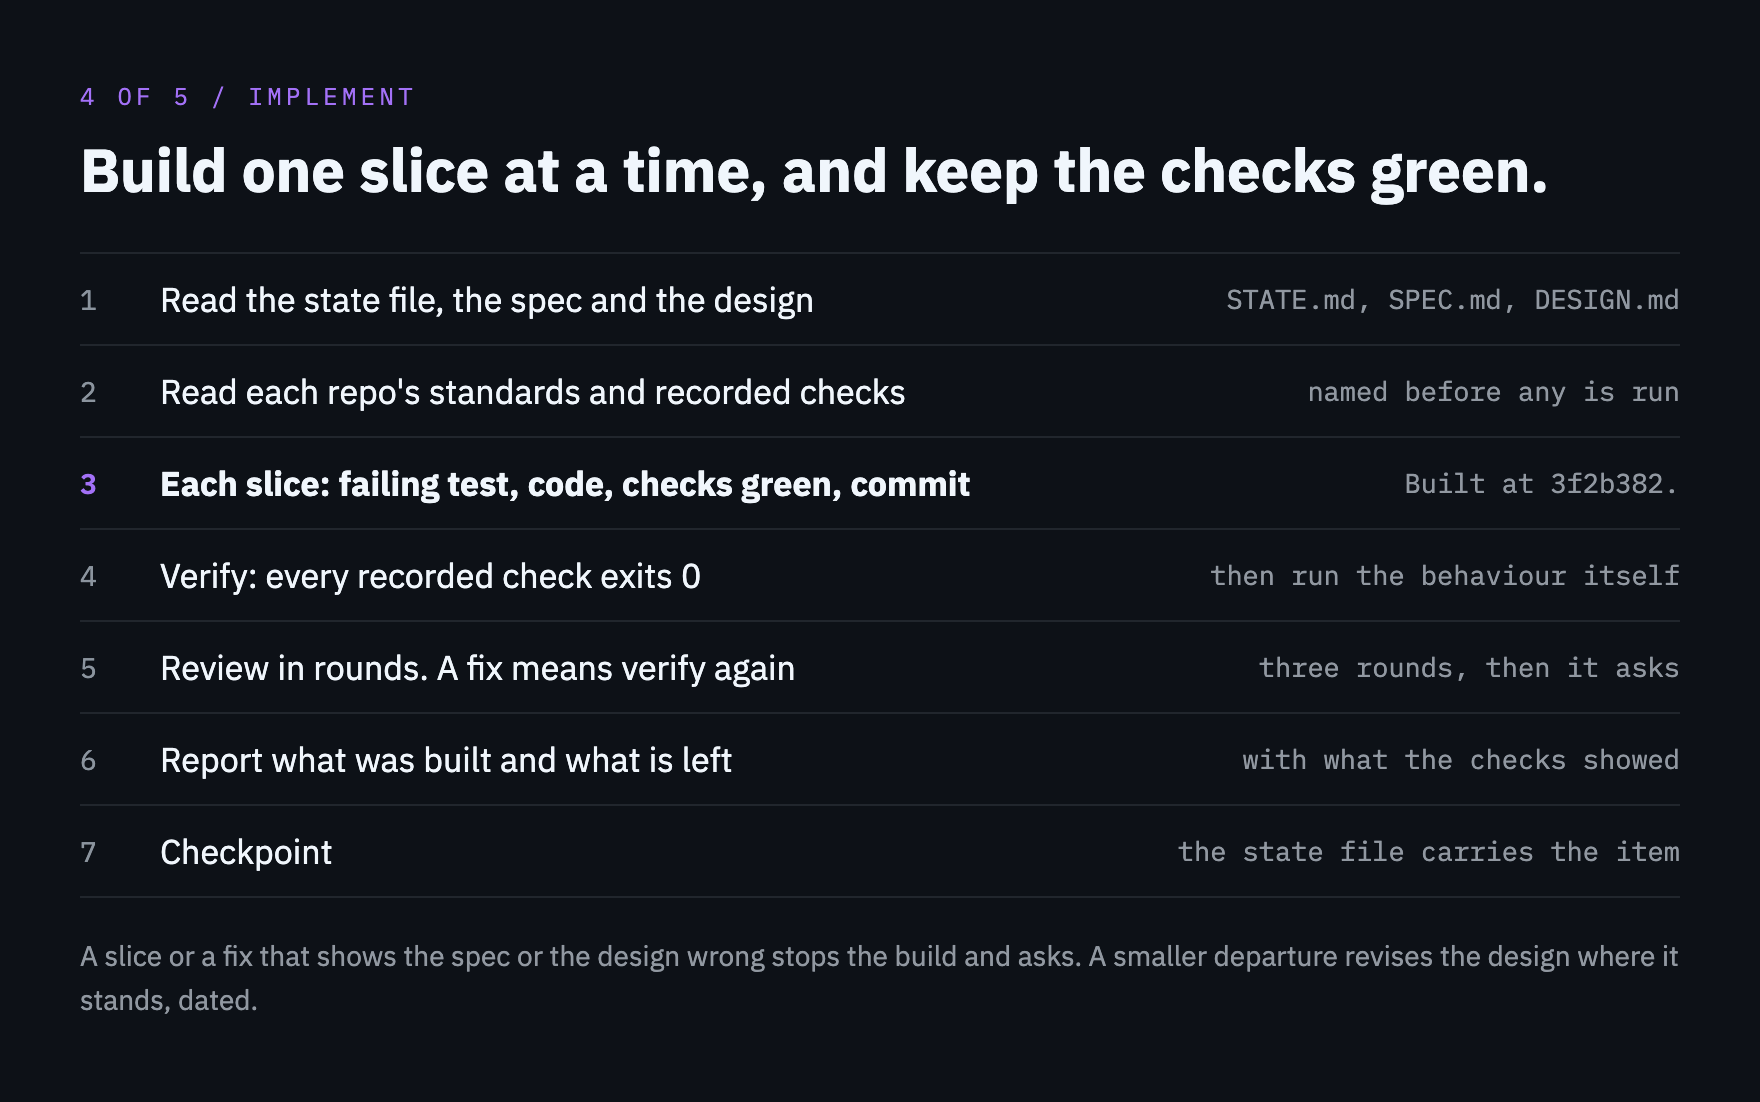
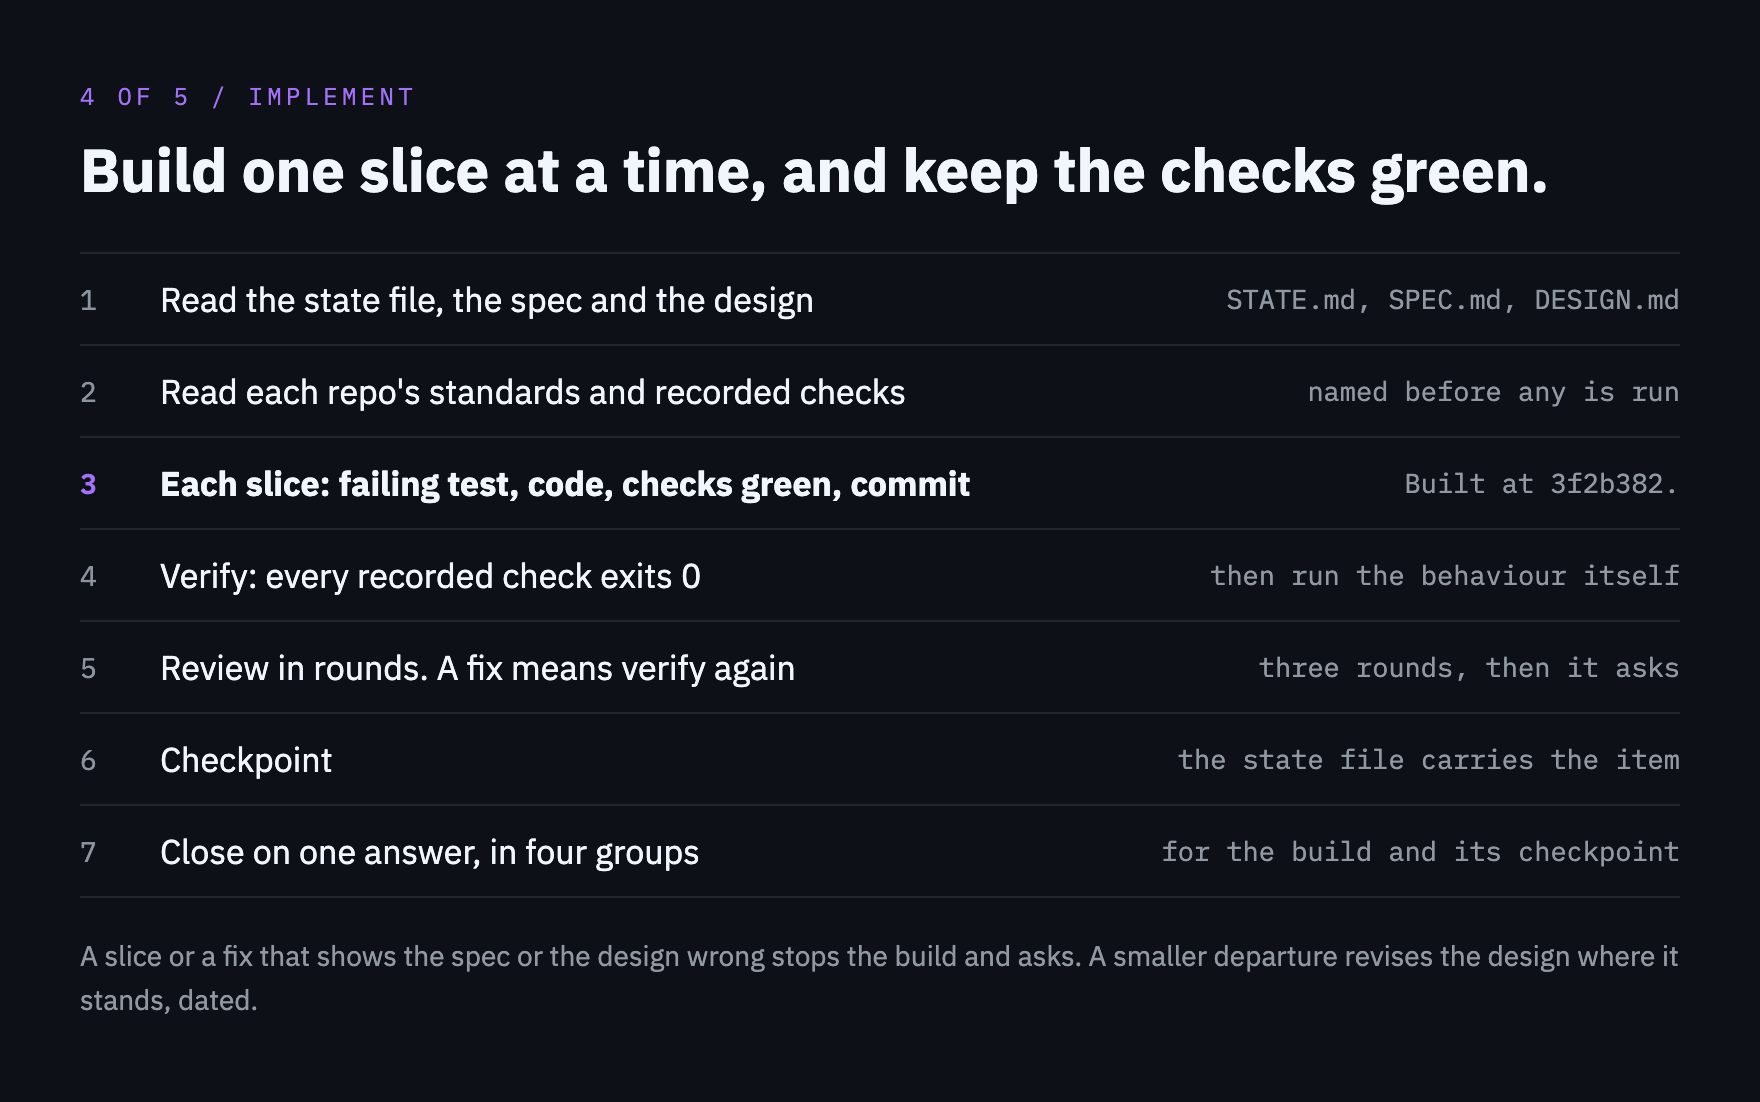
docs: redraw the build's picture and research's fourth row, and say in the README how every skill ends
The build's picture still read report, then checkpoint, above text that says a build checkpoints first and answers last. Its last two rows are redrawn in that order, and the fourth row of the research picture now says a claim is sorted into four groups. Both are drawn from the design canvas, changed first, at the sizes they had.

The README gains one line on what every skill ends on and links the section that says it in full, and the commands doc points at it.

diff --git a/README.md b/README.md
@@ -18,6 +18,7 @@ A Claude Code plugin that gives all the context behind your work one central pla
 - **A new session picks up where the last one stopped.** The state file says where the work stands, so you do not explain it again.
 - **Context stays small.** Two small things load every time: one file that routes each task, and the index of work in flight. The rest is read when it is named or asked for.
 - **Nothing is lost.** Long text is kept in full, and each short note names the full text behind it.
+- **You know where to look.** Every skill ends on one line, then four groups: what needs a fix, what is yours to decide, what is fine as it is, and what is not known.
 - **It stays quiet.** The hooks say nothing unless a map covers the folder and the match is confident.
 - **It is plain files.** The map is Markdown and stays readable without the plugin. There are no runtime dependencies, and the resolver makes no network call.
 
@@ -88,7 +89,7 @@ A piece of work goes through five steps, and each step is a skill. Each step lea
 | [4. The build](docs/step-by-step.md#4-the-build) | `/context-central:implement <item>` | `SPEC.md`, and `DESIGN.md` where there is one |
 | [5. The checkpoint](docs/step-by-step.md#5-the-checkpoint) | `/context-central:checkpoint` | git, the files on disk and the session |
 
-[A piece of work, step by step](docs/step-by-step.md) says what each step needs, asks and writes, with a diagram for each.
+[A piece of work, step by step](docs/step-by-step.md) says what each step needs, asks and writes, with a diagram for each, and [how every step ends](docs/step-by-step.md#how-every-step-ends).
 
 ## Where the detail lives
 
@@ -97,7 +98,7 @@ The README is the short version. Each part has a file of its own under `docs/`:
 | Part | What its file covers |
 |---|---|
 | [Install, update and turn off](docs/install.md) | Installing from a session or a local clone, updating, what decides whether the plugin loads, the first run, two accounts on one machine, and turning it off |
-| [A piece of work, step by step](docs/step-by-step.md) | What each of the five steps needs, asks and writes, the settings the build follows, and what the item's folder holds afterwards |
+| [A piece of work, step by step](docs/step-by-step.md) | What each of the five steps needs, asks and writes, the settings the build follows, how every step ends, and what the item's folder holds afterwards |
 | [The map](docs/map.md) | The two layouts, what each folder holds, an older item, the glossary, the budget of each tier, and evidence |
 | [Connections](docs/connections.md) | How a connection is recorded, references, presets, the three ways a connection is read, and a pinned account |
 | [Standards and checks](docs/standards.md) | A repo's standards note, the files and the checks recorded beside it, and what is done where none is recorded |

diff --git a/docs/commands.md b/docs/commands.md
@@ -42,13 +42,13 @@ About `doctor`:
 
 ## Skills
 
-Typed with the plugin prefix. All but the last run only when you invoke them; `checkpoint` may also be picked up by the model. The five that do the work are walked through in [A piece of work, step by step](step-by-step.md).
+Typed with the plugin prefix. All but the last run only when you invoke them; `checkpoint` may also be picked up by the model. The five that do the work are walked through in [A piece of work, step by step](step-by-step.md). Every skill ends on a [closing answer](step-by-step.md#how-every-step-ends) in four groups.
 
 | Skill | What it does |
 |---|---|
 | `/context-central:onboard` | Detects the estate, asks what is unsettled, writes the map, proves each connection, runs `doctor` |
 | `/context-central:standards <repo>` | Drafts one repo's standards note and its checks from what the repo declares, asks what is unsettled, writes both on your yes |
-| `/context-central:research <question> [item]` | Researches from primary sources, marks each claim verified or inferred, writes a note |
+| `/context-central:research <question> [item]` | Researches from primary sources, marks each claim and sorts it into one of four groups, writes a note laid out in them |
 | `/context-central:prep <item>` | Reads the item's ticket, then turns the conversation and research into the item's `SPEC.md` and a short tracker brief |
 | `/context-central:design <item>` | Reads the spec, the repo's standards and the code, and writes the item's `DESIGN.md`: the modules, their interfaces, each choice with its reason, the slices in order, the checks beyond this machine and what is cut if time is short. Optional, and approved by starting the build |
 | `/context-central:implement <item>` | Builds from the state file, the spec and the design when there is one, one slice at a time, following the estate's settings for tests and review, the repo's standards and its recorded checks. Stops and asks when the last review round allowed, the third unless set, still brings a finding to fix |

diff --git a/docs/step-by-step.md b/docs/step-by-step.md
@@ -25,7 +25,7 @@ A piece of work goes through five steps, and each step is a skill. Each step lea
 /context-central:research <question> [item]
 ```
 
-![Research in five steps: place the question on a work item, gather from primary sources, save the full text before any summary, mark every claim verified or inferred, then write the note and answer in four groups](research.png)
+![Research in five steps: place the question on a work item, gather from primary sources, save the full text before any summary, mark every claim and sort it into four groups, then write the note and answer in those groups](research.png)
 
 A primary source is the thing itself: the code at a commit, the ticket, the pull request, the vendor's own documentation, the meeting record. A summary, a recollection or a note already in the map is a lead to check against its source, never the source.
 
@@ -102,7 +102,7 @@ You approve by starting the build: `/clear`, then `/context-central:implement <i
 /context-central:implement <item>
 ```
 
-![The build in seven steps: read the state file, the spec and the design, read each repo's standards and recorded checks, build each slice from a failing test to a commit, verify that every recorded check exits 0, review in rounds, report, then checkpoint](implement.png)
+![The build in seven steps: read the state file, the spec and the design, read each repo's standards and recorded checks, build each slice from a failing test to a commit, verify that every recorded check exits 0, review in rounds, checkpoint, then close on one answer in four groups](implement.png)
 
 It needs the spec, and it reads the design when there is one. A design names the commit it was written at, so where a file its anchors point at has changed since, implement says so before it builds.
 

diff --git a/CHANGELOG.md b/CHANGELOG.md
@@ -10,7 +10,7 @@ Every skill ends on an answer of one shape: one line that gives the outcome, the
 - **Research sorts its claims.** Each claim gets one of the four groups. One that needs a fix or is fine carries its mark, `verified` or `inferred`: in the answer with the one source that shows it best, in the research note with every source. The note holds the claims under the four groups, with `none` under an empty one.
 - **A build gives one answer, after its checkpoint.** The review is in it: the rounds run, each finding fixed and each left as it is with the reason under Fine as it is, and each finding still open under Needs a fix. A build that stops at the last round allowed closes in the same shape and ends on the ruling it waits for. One that `implement.deferTo` hands to a skill of your own closes in it too. A checkpoint that a build runs gives no answer of its own.
 - **What is asked part-way stays as it was.** The numbered questions of prep, standards and onboard are still a numbered list, and a stop part-way, such as an item that was not found, is not held to the shape.
-- **The docs say once how every step ends**, in the step-by-step doc, and each step links it. The research picture's last row is redrawn, and `CONTEXT.md` defines Closing answer, Group, Point and Mark.
+- **The docs say once how every step ends**, in the step-by-step doc, and each step links it. The README says it in a line. Two pictures are redrawn: research sorts its claims and answers in four groups, and a build checkpoints before its one answer. `CONTEXT.md` defines Closing answer, Group, Point and Mark.
 
 Not shown:
 
